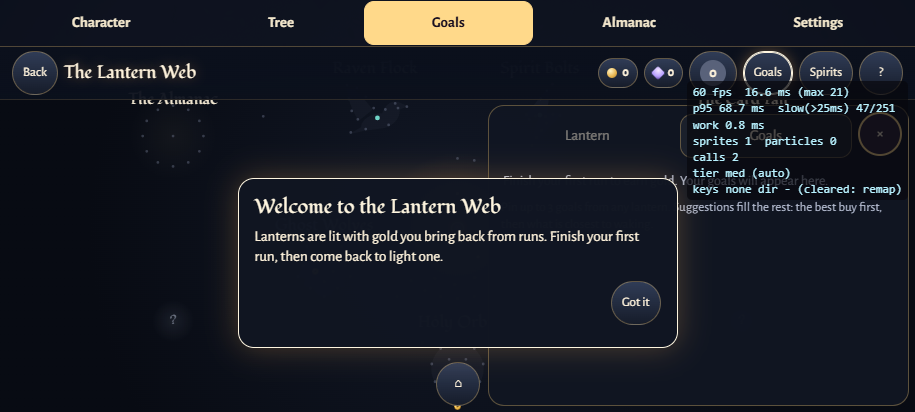
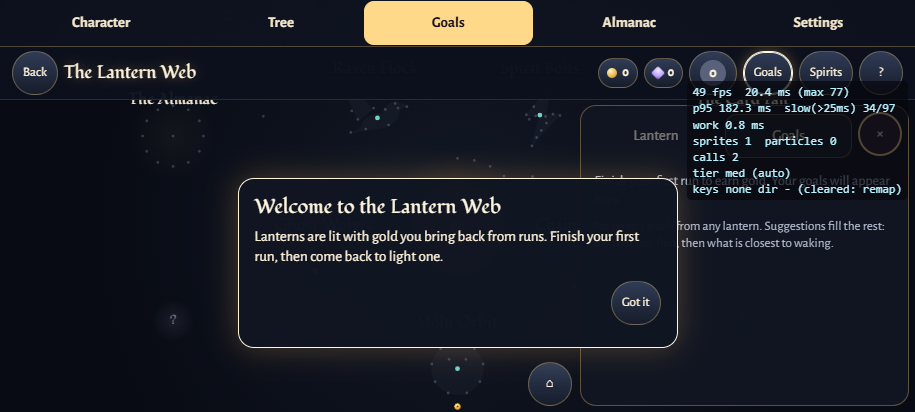
A3: scroll cues, phone Settings/Goals layouts, shots script

diff --git a/src/ui/phone.css b/src/ui/phone.css
@@ -15,3 +15,19 @@ html.phone #stage { width: 100%; height: 100%; aspect-ratio: auto; border-radius
 :root { --sa-t: env(safe-area-inset-top, 0px); --sa-r: env(safe-area-inset-right, 0px); --sa-b: env(safe-area-inset-bottom, 0px); --sa-l: env(safe-area-inset-left, 0px); }
 /* the persistent menu tab bar keeps its tabs out of the notch and rounded corners */
 html.phone .mnav { padding-left: max(4px, var(--sa-l)); padding-right: max(4px, var(--sa-r)); }
+
+/* ---- A3: scroll cues. phone.js sets data-sc on any menu panel that scrolls while more lies past an edge; the edge fades so "there is more" is visible. ---- */
+html.phone [data-sc="bottom"] { -webkit-mask-image: linear-gradient(#000 calc(100% - 2.6em), transparent); mask-image: linear-gradient(#000 calc(100% - 2.6em), transparent); }
+html.phone [data-sc="top"] { -webkit-mask-image: linear-gradient(transparent, #000 2.6em); mask-image: linear-gradient(transparent, #000 2.6em); }
+html.phone [data-sc="both"] { -webkit-mask-image: linear-gradient(transparent, #000 2.6em, #000 calc(100% - 2.6em), transparent); mask-image: linear-gradient(transparent, #000 2.6em, #000 calc(100% - 2.6em), transparent); }
+
+/* ---- A3: phone landscape menu layouts (rail + content use the whole width; panels stop being desktop panels shrunk) ---- */
+@media (orientation: landscape) {
+  /* Settings: the persistent nav already says "Settings", so the big title goes (kept for screen readers); the freed height lets all Sound rows show */
+  html.phone .overlay.u4.u4-settingsscreen .lg-panel__title { position: absolute; width: 1px; height: 1px; overflow: hidden; clip-path: inset(50%); white-space: nowrap; }
+  html.phone .overlay.u4.u4-settingsscreen .lg-panel { width: min(100%, 900px); }
+  /* Goals / lantern details: a narrower side drawer so the tree stays readable (the map frame re-measures from the panel) */
+  html.phone .ts.ts-short { --ts-pw: clamp(280px, 36%, 380px); }
+  html.phone .ts.ts-short .ts-panel { width: var(--ts-pw); }
+  html.phone .ts.ts-short.ts-sel .ts-zoom { right: calc(var(--ts-pw) + 14px); }
+}
